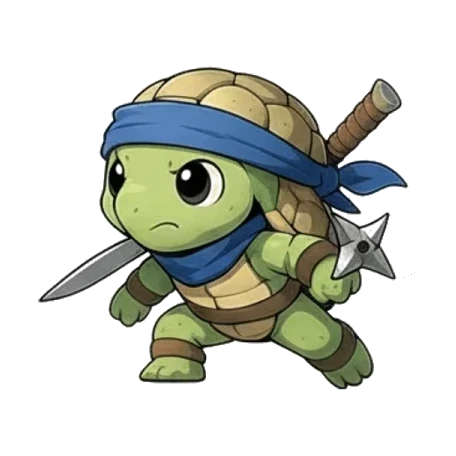
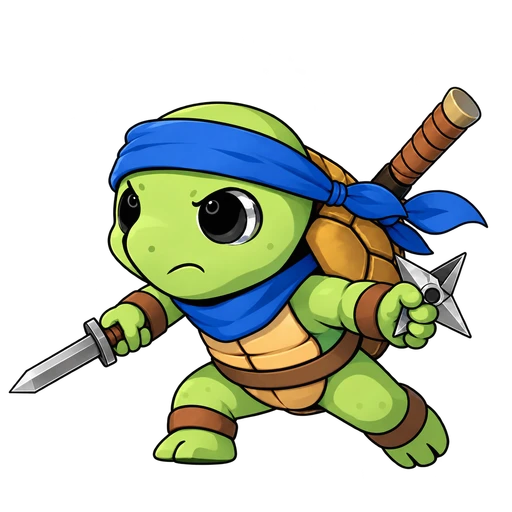
fix(pets): replace stale Pebble Tortoise art

diff --git a/shinobij.client/src/lib/pet-battle-anim.ts b/shinobij.client/src/lib/pet-battle-anim.ts
@@ -16,7 +16,7 @@ export { elementVfxKey, petStripVariant } from './pet-presentation-keys';
  */
 
 import type { Pet } from "../types/pet";
-import { petVisualId } from "../data/pet-evolutions";
+import { currentStage, petVisualId } from "../data/pet-evolutions";
 import { hasPetPose } from "./pet-pose-availability";
 import { versionPetArtUrl } from "./pet-art-revision";
 import type {
@@ -62,6 +62,16 @@ const BREEDING_MYTHIC_PORTRAITS: Readonly<Record<string, string>> = {
 const STORM_GULL_CARD_PORTRAIT = "/pet-portraits/standard-17-card-v2.webp";
 const SNOW_RABBIT_CARD_PORTRAIT = "/pet-portraits/standard-1-card-v2.webp";
 const PEBBLE_TORTOISE_CARD_PORTRAIT = "/pet-portraits/pebble-tortoise-chibi-v2.webp";
+export const PEBBLE_TORTOISE_CUTOUT = "/pet-portraits/pebble-tortoise-chibi-v2-cutout.webp";
+
+function isBasePebbleTortoise(pet: Pet): boolean {
+    if (petVisualId(pet) === "starter-earth") return true;
+    // Public presence pets and older saves can omit templateId. Their owned
+    // instance or encounter ID still identifies the starter species.
+    const templateId = typeof pet.templateId === "string" ? pet.templateId.trim() : "";
+    if (currentStage(pet) !== 0 || (templateId && templateId !== "starter-earth")) return false;
+    return pet.id.startsWith("starter-earth:") || /^starter-earth-\d{10,}$/.test(pet.id);
+}
 
 // Reviewed single-character alternatives for cards whose idle art contains
 // stacked figures or a baked checkerboard. Only the final static-card fallback
@@ -131,6 +141,7 @@ export function petBattleLayers(
     pet: Pet,
     sharedImages: Record<string, string> = {},
 ): { far: string; mid: string; near: string } | null {
+    if (isBasePebbleTortoise(pet)) return null;
     const artIds = petPoseArtIds(pet);
     const variant = petPaletteVariant(pet);
     // A depth stack is one asset: never mix forms or partial palette uploads.
@@ -155,6 +166,7 @@ export function petBattleSheet(
     pet: Pet,
     sharedImages: Record<string, string> = {},
 ): { src: string; frames: number } | null {
+    if (isBasePebbleTortoise(pet)) return null;
     const artIds = petPoseArtIds(pet);
     const sourceKey = variantImageKeys(PET_SHEET_PREFIX, pet, artIds).find((key) => sharedImages[key]);
     if (!sourceKey) return null;
@@ -179,6 +191,8 @@ export function petBattleSprite(
     pet: Pet,
     sharedImages: Record<string, string> = {},
 ): { mode: PetSpriteMode; src: string } {
+    // Old saves and shared uploads can still carry the original Pebble pose.
+    if (isBasePebbleTortoise(pet)) return { mode: "fullBodySprite", src: PEBBLE_TORTOISE_CUTOUT };
     const artIds = petArtIds(pet);
     const variantSprite = publishedVariantSprite(pet, sharedImages, artIds);
     if (variantSprite) return { ...variantSprite, src: versionPetArtUrl(variantSprite.src) };
@@ -217,7 +231,7 @@ export function petCardImage(
     const artIds = petArtIds(pet);
     // Replace the damaged base-stage shell art in every card/battle fallback.
     // Evolved forms keep their separately reviewed stage portraits.
-    if (petVisualId(pet) === "starter-earth") return PEBBLE_TORTOISE_CARD_PORTRAIT;
+    if (isBasePebbleTortoise(pet)) return PEBBLE_TORTOISE_CARD_PORTRAIT;
     if (artIds.includes("standard-17")) {
         const variant = petPaletteVariant(pet);
         return (variant && firstSharedImage(sharedImages, artIds.flatMap((id) => [
@@ -244,6 +258,16 @@ export function petCardImage(
     return "";
 }
 
+/** Portrait art for circular pet tokens, which should not prefer body sprites. */
+export function petPortraitImage(pet: Pet, sharedImages: Record<string, string> = {}): string {
+    if (isBasePebbleTortoise(pet)) return PEBBLE_TORTOISE_CARD_PORTRAIT;
+    const artIds = petArtIds(pet);
+    const portrait = firstSharedImage(sharedImages, variantImageKeys(PET_IMG_PREFIX, pet, artIds))
+        || pet.image
+        || petCardImage(pet, sharedImages);
+    return versionPetArtUrl(portrait);
+}
+
 /**
  * POSE-FIRST image resolver for billboard-style renderers (the Pet Gauntlet board,
  * its placement grid, and its recruit cards). Unlike petCardImage — which prefers
@@ -253,6 +277,7 @@ export function petCardImage(
  * petCardImage only when a pet has no generated pose. Pure.
  */
 export function petPoseImage(pet: Pet, sharedImages: Record<string, string> = {}): string {
+    if (isBasePebbleTortoise(pet)) return PEBBLE_TORTOISE_CUTOUT;
     const posedId = petPoseArtIds(pet).find(hasPetPose);
     if (posedId) return idlePoseUrl(posedId);
     return petCardImage(pet, sharedImages);

diff --git a/shinobij.client/src/screens/MissionArenaFight.tsx b/shinobij.client/src/screens/MissionArenaFight.tsx
@@ -85,8 +85,8 @@ import { jutsuDetailDescription, jutsuTargetingLabel } from "../lib/jutsu-effect
 import { isImageAvatar } from "../lib/avatar";
 import { battlefieldAiSprite } from "../lib/battlefield-actor-art";
 import { resolveOwnAvatar } from "../lib/own-avatar";
-import { petCardImage, petStripVariant } from "../lib/pet-battle-anim";
-import { firstSharedImage, petVisualVariantClass, variantImageKeys } from "../lib/pet-visual-variant";
+import { petPortraitImage } from "../lib/pet-battle-anim";
+import { petVisualVariantClass } from "../lib/pet-visual-variant";
 
 import { getAllItems } from "../lib/items";
 import type { Pet } from "../types/pet";
@@ -94,17 +94,6 @@ import type { SavedBloodline, Jutsu, GameItem } from "../types/combat";
 import { unavailableCompanionSummonCopy } from "../lib/companion-summon-copy";
 import { playerSlug } from "../lib/utils";
 
-// The board token is a CIRCULAR orb (same treatment as the player/enemy), so the
-// pet's PORTRAIT is the right art. petCardImage reaches for the un-clipped
-// FULL-BODY battle sprite (`petbody:` / bodyImage) first — that's built for the
-// Pet Arena and reads wrong clipped into a circle. Prefer the portrait (`pet:` /
-// pet.image), then fall back to petCardImage so portrait-less starters still show
-// their baked idle pose instead of bare initials.
-function petOrbPortrait(pet: Pet, shared: Record<string, string>): string {
-    return firstSharedImage(shared, variantImageKeys("pet:", pet, [pet.id, petStripVariant(pet.id)]))
-        || pet.image
-        || petCardImage(pet, shared);
-}
 import { biomeLabel } from "../data/world";
 import { equipSlotForItem } from "../lib/equipment";
 import { pvpAffectsOpponent, tagMatchesName } from "../lib/tags";
@@ -1191,12 +1180,12 @@ export function MissionArenaFight({
     const enemyBattleSprite = battlefieldAiSprite(enemyVisual, sharedImages);
     // The pet's portrait is resolved from the player's OWN save (character.pets) rather
     // than sealed into the session — a base64 pet image would bloat every 2.5s poll.
-    // Portrait-first (see petOrbPortrait) — `pet.image` alone misses published art.
+    // Portrait-first — `pet.image` alone misses published and replacement art.
     const companionPetId = String(companion?.character?.visual ?? "");
     const companionPet = companionPetId ? (character.pets ?? []).find((p) => p.id === companionPetId) : undefined;
     const activePet = (character.pets ?? []).find((pet) => pet.id === character.activePetId);
     const unavailableCompanionCopy = unavailableCompanionSummonCopy(activePet);
-    const companionImage = companionPet ? petOrbPortrait(companionPet, sharedImages ?? {}) : "";
+    const companionImage = companionPet ? petPortraitImage(companionPet, sharedImages ?? {}) : "";
     const companionRoundsLeft = Number(companion?.character?.companionRoundsLeft ?? 0);
 
     // The sealed session strips jutsu art (combat fields only), so card thumbnails

diff --git a/shinobij.client/src/lib/pet-battle-anim.test.ts b/shinobij.client/src/lib/pet-battle-anim.test.ts
@@ -9,6 +9,7 @@ import {
     extractPetMoveName,
     petBattleSprite,
     petCardImage,
+    petPortraitImage,
     petBattleLayers,
     petBattleSheet,
     petPoseImage,
@@ -69,6 +70,44 @@ test("Raijin's saved portrait and pose paths resolve to the current art", () => 
     assert.deepEqual(petBattleSprite(raijin), { mode: "circleFallback", src: portrait });
     assert.equal(petPoseImage(raijin), idle);
     assert.equal(petCardImage({ ...raijin, image: "" }), idle);
+});
+
+test("base Pebble Tortoise ignores old saved and shared art on cards, tokens, and sprites", () => {
+    const old = "/pet-poses/starter-earth-idle.webp?v=5";
+    const portrait = "/pet-portraits/pebble-tortoise-chibi-v2.webp";
+    const cutout = "/pet-portraits/pebble-tortoise-chibi-v2-cutout.webp";
+    const shared = {
+        "pet:starter-earth": old,
+        "petbody:starter-earth": old,
+        "petsheet:starter-earth": old,
+        "petlayers:starter-earth:far": old,
+        "petlayers:starter-earth:mid": old,
+        "petlayers:starter-earth:near": old,
+    };
+    for (const pet of [
+        mkPet({ id: "starter-earth", image: old, bodyImage: old }),
+        mkPet({ id: "starter-earth:550e8400-e29b-41d4-a716-446655440000", templateId: "starter-earth", image: old, bodyImage: old }),
+        mkPet({ id: "starter-earth:550e8400-e29b-41d4-a716-446655440000", image: old, bodyImage: old }),
+        mkPet({ id: "starter-earth:legacy-instance", image: old, bodyImage: old }),
+        mkPet({ id: "starter-earth-1700000000000", image: old, bodyImage: old }),
+    ]) {
+        assert.equal(petCardImage(pet, shared), portrait);
+        assert.equal(petPortraitImage(pet, shared), portrait);
+        assert.equal(petPoseImage(pet, shared), cutout);
+        assert.deepEqual(petBattleSprite(pet, shared), { mode: "fullBodySprite", src: cutout });
+        assert.equal(petBattleSheet(pet, shared), null);
+        assert.equal(petBattleLayers(pet, shared), null);
+    }
+    const evolved = mkPet({ id: "starter-earth", rarity: "rare", evolutionStage: 1, image: "/pet-evos/starter-earth-r.webp" });
+    assert.equal(petCardImage(evolved), "/pet-evos/starter-earth-r.webp");
+    assert.deepEqual(petBattleSprite(evolved), { mode: "circleFallback", src: "/pet-evos/starter-earth-r.webp" });
+    assert.equal(petPoseImage(evolved), "/pet-poses/starter-earth-r-idle.webp?v=5");
+});
+
+test("circular pet tokens prefer shared portraits over body sprites", () => {
+    const pet = mkPet({ id: "starter-fire", image: "inline.png", bodyImage: "body.png" });
+    assert.equal(petPortraitImage(pet, { "pet:starter-fire": "shared.png" }), "shared.png");
+    assert.equal(petPortraitImage(pet), "inline.png");
 });
 
 test("petCardImage: Snow Rabbit uses clean card art for wild and owned instances", () => {

diff --git a/shinobij.client/src/components/pet-coliseum/sprite-resources.ts b/shinobij.client/src/components/pet-coliseum/sprite-resources.ts
@@ -3,7 +3,7 @@ import { useEffect, useMemo, useState } from "react";
 import * as THREE from "three";
 import type { Pet } from "../../types/pet";
 import type { PetVisualState } from "../../types/pet-battle";
-import { petBattleSprite, petStripVariant } from "../../lib/pet-battle-anim";
+import { PEBBLE_TORTOISE_CUTOUT, petBattleSprite, petStripVariant } from "../../lib/pet-battle-anim";
 import { type ProjTexKind } from "../../lib/pet-projectile-vfx";
 import { spriteBoundsFromAlpha, DEFAULT_SPRITE_BOUNDS, type SpriteBounds } from "../../lib/pet-coliseum-scene";
 import { type ShrineKind } from "../../lib/pet-arena-sim";
@@ -165,11 +165,16 @@ const MOVE_CATS: PoseCat[] = ["windup", "lunge", "impact", "recover"];
  // generated attack sequence
 // Poses are served as STATIC files (public/pet-poses/) and loaded on demand per
 // fighting pet — the manifest says which of the 148 pets have a generated set.
-export const poseUrl = (id: string, cat: PoseCat) => versionPetArtUrl(`/pet-poses/${id}-${cat}.webp`);
+export const poseUrl = (id: string, cat: PoseCat) => id === "starter-earth"
+    ? PEBBLE_TORTOISE_CUTOUT
+    : versionPetArtUrl(`/pet-poses/${id}-${cat}.webp`);
 
 /** The posed-asset id for a pet (its own id, or the stripped base id), or null
  *  if no pose set was generated for it. */
 export function posedId(petId: string): string | null {
+    // Base Pebble's old pose set predates its reviewed portrait. Its single
+    // transparent cutout uses the normal sprite choreography instead.
+    if (petStripVariant(petId) === "starter-earth") return null;
     if (POSED_PET_IDS.has(petId)) return petId;
     const base = petStripVariant(petId);
     return POSED_PET_IDS.has(base) ? base : null;

diff --git a/shinobij.client/src/components/PetEvolutionStage3D.tsx b/shinobij.client/src/components/PetEvolutionStage3D.tsx
@@ -50,7 +50,7 @@ import {
     lerp,
     type SpriteBounds,
 } from "../lib/pet-coliseum-scene";
-import { petStripVariant } from "../lib/pet-battle-anim";
+import { PEBBLE_TORTOISE_CUTOUT, petStripVariant } from "../lib/pet-battle-anim";
 import { POSED_PET_IDS } from "../assets/coliseum/pet-poses-manifest";
 import { versionPetArtUrl } from "../lib/pet-art-revision";
 
@@ -68,7 +68,9 @@ const ELEMENT_TINT: Record<string, string> = {
 };
 const elementTint = (el?: string | null) => ELEMENT_TINT[String(el ?? "").toLowerCase()] ?? "#a5f3fc";
 
-const poseIdleUrl = (id: string) => versionPetArtUrl(`/pet-poses/${id}-idle.webp`);
+const poseIdleUrl = (id: string) => id === "starter-earth"
+    ? PEBBLE_TORTOISE_CUTOUT
+    : versionPetArtUrl(`/pet-poses/${id}-idle.webp`);
 const heroUrl = (visualId: string) => versionPetArtUrl(`/pet-evos/${visualId}.webp`);
 /** The posed-asset id for a visual id (itself, or its variant-stripped base), or
  *  null when no pose set exists → the renderer falls back to the portrait. */
@@ -857,7 +859,7 @@ export function PetEvolutionStage3D({
     if (!webgl) {
         const showNew = isNewFormVisible(phase.beat) || (!isOldFormVisible(phase.beat) && phase.beat !== "charge");
         const src = versionPetArtUrl(showNew ? (newImage ?? `/pet-evos/${petVisualId(pet)}.webp`)
-                            : (oldImage ?? `/pet-poses/${posedId(oldVisualId) ?? oldVisualId}-idle.webp`));
+                            : (oldImage ?? poseIdleUrl(posedId(oldVisualId) ?? oldVisualId)));
         return (
             <div className={petVisualVariantClass(pet)} style={{ width: "100%", height: "100%", display: "grid", placeItems: "center" }}>
                 <img

diff --git a/shinobij.client/src/components/pet-coliseum/frame-battle.tsx b/shinobij.client/src/components/pet-coliseum/frame-battle.tsx
@@ -12,7 +12,7 @@ import { petArchetypeFor, petHighGroundTiles, petBushTiles, type ArenaTile } fro
 import { PET_SPAWN_1V1 } from "../../constants/pet-arena";
 import { PetBattleAvatar } from ".././PetBattleAvatar";
 import type { PetVisualState, PetBattleAnimationEventType } from "../../types/pet-battle";
-import { buildPetAnimationEvents, petPoseForAvatar, elementVfxKey, extractPetMoveName } from "../../lib/pet-battle-anim";
+import { buildPetAnimationEvents, petPoseForAvatar, elementVfxKey, extractPetMoveName, petPortraitImage } from "../../lib/pet-battle-anim";
 import { petBattleCamera, petCameraHoldMs } from "../../lib/pet-battle-camera";
 import { petFxSpriteKey } from "../../lib/jutsu-vfx";
 import { bundledJutsuFxFrames } from "../../lib/jutsu-fx-assets";
@@ -967,9 +967,7 @@ export function PetColiseum({
                 (overlay, slide-ins, countdown pop) over the dimmed 3D arena.
                 In 2v2 each side also introduces its reserve as a small chip. */}
             {frame?.isPrefight && (() => {
-                const miniSrc = (p?: Pet) => p
-                    ? (sharedImages["pet:" + p.id] || sharedImages["pet:" + p.id.replace(/-\d{10,}$/, "")] || p.image || "")
-                    : "";
+                const miniSrc = (p?: Pet) => p ? petPortraitImage(p, sharedImages) : "";
                 const reserveChip = (p?: Pet) => p && (
                     <div style={{ display: "flex", alignItems: "center", gap: 6, marginTop: 4, color: "#cbd5e1", font: "600 12px Inter, system-ui, sans-serif" }}>
                         <span style={{ color: "#94a3b8" }}>＋</span>

diff --git a/shinobij.client/src/screens/UserView.tsx b/shinobij.client/src/screens/UserView.tsx
@@ -26,6 +26,7 @@ import { NindoCard } from "../components/NindoCard";
 import { titleStyleColor, fetchLegacyDefinitions, eraAgeName, useLegacyAvailability, type LegacyDefView } from "../lib/legacy";
 import { LegacyBadge } from "../components/LegacyBadge";
 import { petVisualVariantClass } from "../lib/pet-visual-variant";
+import { petCardImage } from "../lib/pet-battle-anim";
 import { GameArtIcon } from "../components/GameArtIcon";
 
 const ELEMENT_COLORS: Record<string, string> = {
@@ -274,7 +275,7 @@ export function UserView({
                         <h3 style={{ margin: "0 0 10px" }}>Pets</h3>
                         <div style={{ display: "grid", gridTemplateColumns: "repeat(auto-fit, minmax(150px, 1fr))", gap: 10 }}>
                             {pets.slice(0, 8).map((p) => {
-                                const petImg = sharedImages['pet:' + String(p.id).toLowerCase()] || p.image || "";
+                                const petImg = petCardImage(p, sharedImages);
                                 return (
                                     <div key={String(p.id)} className={petVisualVariantClass(p)} style={{ display: "flex", gap: 10, alignItems: "center", background: "rgba(15,23,42,0.7)", border: `1px solid ${rarityColor(p.rarity)}55`, borderRadius: 10, padding: 8 }}>
                                         <div style={{ width: 44, height: 44, borderRadius: 8, overflow: "hidden", flexShrink: 0, background: "rgba(0,0,0,0.3)", display: "flex", alignItems: "center", justifyContent: "center" }}>

diff --git a/shinobij.client/src/lib/pet-warfront-assets.test.ts b/shinobij.client/src/lib/pet-warfront-assets.test.ts
@@ -1,6 +1,6 @@
 import { test } from "node:test";
 import assert from "node:assert/strict";
-import { stat } from "node:fs/promises";
+import { readFile, stat } from "node:fs/promises";
 import { fileURLToPath } from "node:url";
 import { rawPetPool } from "../data/pet-pool";
 import { STARTER_PETS } from "../data/starter-pets";
@@ -39,9 +39,16 @@ test("every built-in and evolved starter pet has a local Warfront portrait fallb
     for (const pet of allPets) {
         const sources = petWarfrontPortraitSources(pet, {}, true);
         const fallback = sources.at(-1);
-        assert.ok(fallback?.startsWith("/pet-poses/"), `${pet.name} (${pet.id}) has no static pose fallback`);
+        assert.ok(fallback?.startsWith("/pet-poses/") || fallback?.startsWith("/pet-portraits/"),
+            `${pet.name} (${pet.id}) has no local static fallback`);
         const path = fileURLToPath(new URL(`../../public${fallback.split("?")[0]}`, import.meta.url));
         const info = await stat(path);
         assert.ok(info.size > 0, `${pet.name} (${pet.id}) fallback image is empty`);
     }
+});
+
+test("the legacy base Pebble idle URL serves the replacement cutout", async () => {
+    const legacy = fileURLToPath(new URL("../../public/pet-poses/starter-earth-idle.webp", import.meta.url));
+    const replacement = fileURLToPath(new URL("../../public/pet-portraits/pebble-tortoise-chibi-v2-cutout.webp", import.meta.url));
+    assert.deepEqual(await readFile(legacy), await readFile(replacement));
 });
